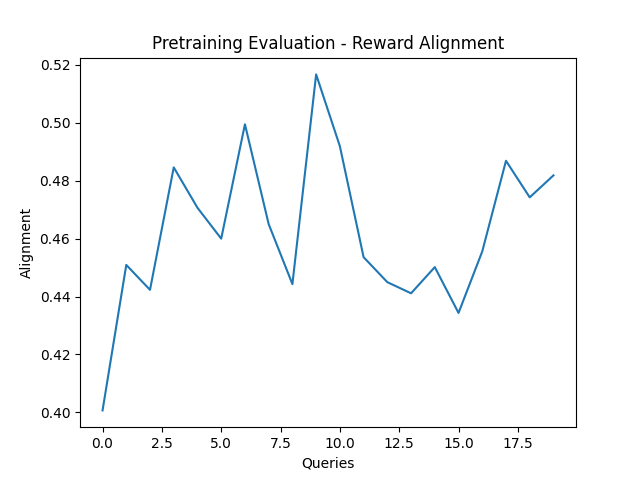
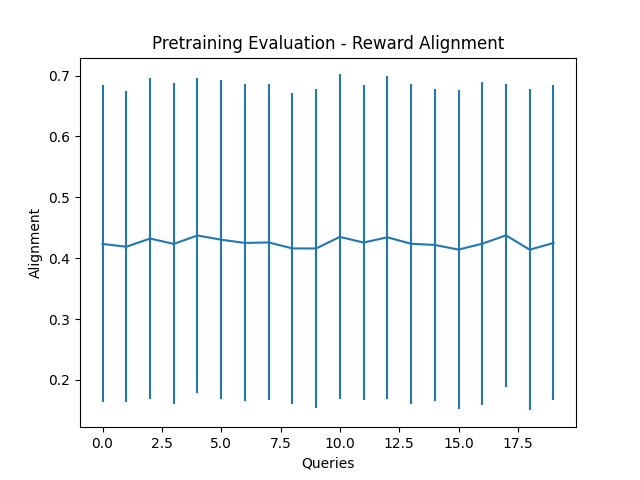
add errorbars to test plots

diff --git a/learner.py b/learner.py
@@ -21,7 +21,7 @@ class Learner:
 
         # define loss functions for VAE
         self.loss = nn.CrossEntropyLoss()
-        self.mse = nn.MSELoss()
+        self.mse = nn.MSELoss(reduction='none')
 
         # directory for plots
         if self.args.visualize:
@@ -207,6 +207,10 @@ class Learner:
                     loss = 0
                     val_loss = 0
 
+                    # initialize hidden variables
+                    hidden = self.encoder.init_hidden(batchsize=self.args.batchsize)
+                    val_hidden = self.encoder.init_hidden(batchsize=self.args.batchsize)
+
                     for i in range(t+1):
 
                         # manually handle hidden inputs for gru for sequence
@@ -214,10 +218,6 @@ class Learner:
                         curr_answers = answer_seqs[i].unsqueeze(0)
                         val_queries = val_query_seqs[i].unsqueeze(0)
                         val_answers = val_answer_seqs[i].unsqueeze(0)
-
-                        # initialize hidden variables
-                        hidden = self.encoder.init_hidden(batchsize=self.args.batchsize)
-                        val_hidden = self.encoder.init_hidden(batchsize=self.args.batchsize)
                     
                         # get beliefs from queries and answers
                         beliefs, hidden = self.encoder(curr_queries, curr_answers, hidden)
@@ -241,8 +241,8 @@ class Learner:
                     self.optimizer.zero_grad()
 
                     ## NOT SURE IF I SHOULD DO THIS ##
-                    loss /= (t+1)
-                    val_loss /= (t+1)
+                    #loss /= (t+1)
+                    #val_loss /= (t+1)
                     ##################################
 
                     loss.backward()       
@@ -293,8 +293,10 @@ class Learner:
         self.encoder.eval()
             
         test_losses = []
-        mses = []
-        alignments = []
+        mses_mean = []
+        mses_std = []
+        alignments_mean = []
+        alignments_std = []
         
         with torch.no_grad():
             
@@ -325,12 +327,14 @@ class Learner:
 
                 # compute metrics and store in lists
                 loss = self.loss(inputs, targets)
-                mse = self.mse(beliefs, true_humans)
+                mses = self.mse(beliefs, true_humans)
                 align = alignment(beliefs, true_humans)
 
                 test_losses.append(loss.item())
-                mses.append(mse)
-                alignments.append(align)
+                mses_mean.append(mses.mean())
+                mses_std.append(mses.std())
+                alignments_mean.append(align.mean())
+                alignments_std.append(align.std())
 
                 # get next queries
                 curr_queries = self.policy.run_policy(curr_queries, beliefs, self.test_dataset)
@@ -343,7 +347,7 @@ class Learner:
                 curr_answers = curr_answers.unsqueeze(0)
                     
                 if self.args.verbose:
-                    print("Query %2d: Loss = %.3f, MSE = %.3f, Alignment = %.3f" % (t, loss, mse, align))
+                    print("Query %2d: Loss = %.3f, MSE = %.3f, Alignment = %.3f" % (t, loss, mses_mean[-1], alignments_mean[-1]))
 
             if self.args.one_reward:
                 print("Reward Comparison")
@@ -359,14 +363,14 @@ class Learner:
             plt.savefig(self.dir + "test-loss")
             plt.close()
 
-            plt.plot(mses)
+            plt.errorbar(range(len(mses_mean)), mses_mean, yerr=mses_std)
             plt.xlabel("Queries")
             plt.ylabel("MSE")
             plt.title("Pretraining Evaluation - Reward Error")
             plt.savefig(self.dir + "test-error")
             plt.close()
 
-            plt.plot(alignments)
+            plt.errorbar(range(len(alignments_mean)), alignments_mean, yerr=alignments_std)
             plt.xlabel("Queries")
             plt.ylabel("Alignment")
             plt.title("Pretraining Evaluation - Reward Alignment")

diff --git a/query/simulate.py b/query/simulate.py
@@ -20,4 +20,5 @@ def response_dist(args, query, w):
     return dist
 
 def alignment(w1, w2):
-    return abs(torch.sum(w1 * w2, dim=-1)/(torch.linalg.norm(w1, dim=-1)*torch.linalg.norm(w2, dim=-1))).mean()
+    alignments = abs(torch.sum(w1 * w2, dim=-1)/(torch.linalg.norm(w1, dim=-1)*torch.linalg.norm(w2, dim=-1)))
+    return alignments
